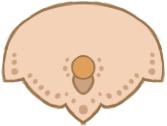
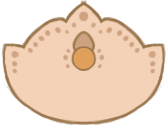
updates

diff --git a/js/events.js b/js/events.js
@@ -10,9 +10,8 @@ function createEventSection(eventId, content) {
                     <article>
                         <h3 class="event-title">${content.title}</h3>
                         <p class="event-datetime"><strong>Date:</strong> ${content.date} at ${content.time}</p>
-                        <p class="event-venue"><strong>Venue:</strong> ${content.venue}</p>
-                        <p class="event-address"><strong>Location:</strong> ${content.address}</p>
-                        <p class="event-description">${content.description}</p>
+                        <p class="event-address"><strong>Venue:</strong> <a href="${content.address_url}">${content.venue}</a></p>
+                        <p class="event-address"><strong>Location:</strong> <a href="${content.address_url}">${content.address}</a></p>
                     </article>
                 </div>
             </div>
@@ -28,11 +27,8 @@ async function updateContent(config) {
     const preset = config.presets[presetName] || config.presets.default;
 
     // Get the events container
-    const eventsContainer = document.getElementById('events-container');
+    const eventsContainer = document.getElementById('containers');
     if (!eventsContainer) return;
-
-    // Clear any existing content
-    eventsContainer.innerHTML = '';
 
     // Create and append sections for each event in the preset
     preset.events.forEach(eventId => {
@@ -45,24 +41,6 @@ async function updateContent(config) {
 
     // Render RSVP content (moved to its own module)
     renderRSVP(config, eventsContainer);
-}
-
-// Function to create the RSVP section HTML
-function createRSVPInner(party, list) {
-    const title = party === 'groom' ? 'RSVP (Groom side)' : 'RSVP (Bride side)';
-    const items = list.map(entry => {
-        const phone = entry.phone || '';
-        const safeHref = phone ? `tel:${phone.replace(/\s+/g, '')}` : '';
-        const phoneLink = phone ? `<a href="${safeHref}">${phone}</a>` : '';
-        return `<li><strong>${entry.name}</strong>${phoneLink ? ': ' + phoneLink : ''}</li>`;
-    }).join('');
-
-    return `
-        <h3 class="event-title">${title}</h3>
-        <ul class="rsvp-list">
-            ${items}
-        </ul>
-    `;
 }
 
 export { updateContent };

diff --git a/js/rsvp.js b/js/rsvp.js
@@ -23,31 +23,35 @@ function createRSVPInner(party, list) {
 // container where events are rendered (used if we need to append a section).
 function renderRSVP(config, eventsContainer) {
     const party = getPartyFromUrl();
+    let rsvpContainer = ''
+    
     if (party) {
         const rsvps = (config.rsvps && config.rsvps[party]) ? config.rsvps[party] : null;
         if (rsvps && Array.isArray(rsvps) && rsvps.length) {
-            const existingRsvpEl = document.getElementById('rsvp');
             const innerHtml = createRSVPInner(party, rsvps);
-            if (existingRsvpEl) {
-                existingRsvpEl.classList.add('rsvp');
-                existingRsvpEl.innerHTML = `<div class="container"><div class="panel-grid"><article>${innerHtml}</article></div></div>`;
-                
-            } else if (eventsContainer) {
-                const rsvpHtml = `
-                    <section id="rsvp" class="panel rsvp-panel">
-                        <div class="container">
-                            <div class="panel-grid">
-                                <article>
-                                    ${innerHtml}
-                                </article>
-                            </div>
+            rsvpContainer = `
+                <section id="rsvp" class="panel rsvp-panel">
+                    <div class="container">
+                        <div class="panel-grid">
+                            <article>${innerHtml}</article>
                         </div>
-                    </section>
+                    </div>
+                </section>
                 `;
-                eventsContainer.insertAdjacentHTML('beforeend', rsvpHtml);
-            }
         }
     }
+
+    rsvpContainer += `
+        <section id="ending-message" class="panel rsvp">
+        <div class="container">
+            <div class="panel-grid">
+            <h2>We hope you'll join us on this special day.</h2>
+            </div>
+        </div>
+        </section>
+    `;
+
+    document.getElementById('walima').insertAdjacentHTML('afterend', rsvpContainer);
 }
 
 export { renderRSVP };

diff --git a/index.html b/index.html
@@ -5,6 +5,7 @@
     <meta name="viewport" content="width=device-width,initial-scale=1" />
     <title>Dr. Iman Fatima &amp; Hussain Sajid - wedding invite</title>
     <link rel="stylesheet" href="css/styles.css">
+    <link rel="icon" type="image/x-icon" href="/img/tile-2.png">
   </head>
   <body>
     <header class="site-header">
@@ -20,18 +21,15 @@
           <p class="hero-sub">"In the name of Allah, the most beneficent. The most merciful"</p>
           <p class="hero-sub">Please join us to celebrate the wedding of</p>
           <h1 class="hero-title">Dr. Iman Fatima &amp; Hussain Sajid</h1>
-          <p class="hero-sub"><a href="#events-container">When and where</a></p>
+          <p class="hero-sub" id="hero-button"><a class='button' href="#containers">When and where</a></p>
+          <!--<button class="transision pointer"><h3>Enter</h3></button>-->
         </div>
         <img src="img/tepih-1.png" alt="decorative frame" class="hero-decor" />
       </section>
 
-      <div id="events-container"></div>
+      <div id="containers">
+      </div>
 
-      <section id="rsvp" class="panel rsvp">
-        <div class="container">
-          <h2>We hope you'll join us on this special day.</h2>
-        </div>
-      </section>
     </main>
 
     <script type="module" src="js/main.js"></script>

diff --git a/css/styles.css b/css/styles.css
@@ -2,7 +2,7 @@
    ========================================================================== */
 :root {
     --bg: #ffe6d2;
-    --accent: #6b5b95;
+    --accent: #af5050;
     --text: #121212;
     --header-height: 88px;
     --header-height-mobile: 80px;
@@ -28,6 +28,20 @@ body {
     line-height: 1.5;
     -webkit-font-smoothing: antialiased;
     -moz-osx-font-smoothing: grayscale;
+}
+
+.button {
+  text-decoration: none;
+  background-color: var(--bg);
+  color: var(--accent);
+  padding: 20px 40px;
+  border: 1px solid var(--accent);
+  transition: 0.2s;
+}
+
+.button:hover {
+  background-color: var(--accent);
+  color: var(--bg);
 }
 
 /* Layout
@@ -132,6 +146,10 @@ body {
 .hero-bismillah {
     width: 200px;
     padding-top: 150px;
+}
+
+#hero-button {
+    padding-top: 50px;
 }
 
 @media (max-width: 768px) {
@@ -257,10 +275,14 @@ body {
 
     .hero-bismillah {
         width: 200px;
-        padding-top: 30px;
+        padding-top: 50px;
     }
 
     .panel .panel-grid {
         padding: 0 20px;
+    }
+
+    .button {
+        padding: 10px 20px;
     }
 }
